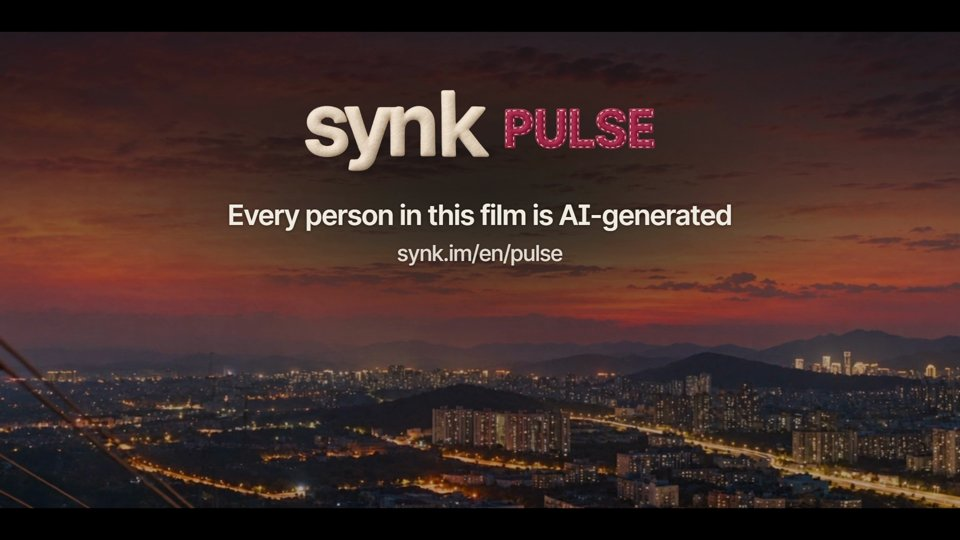
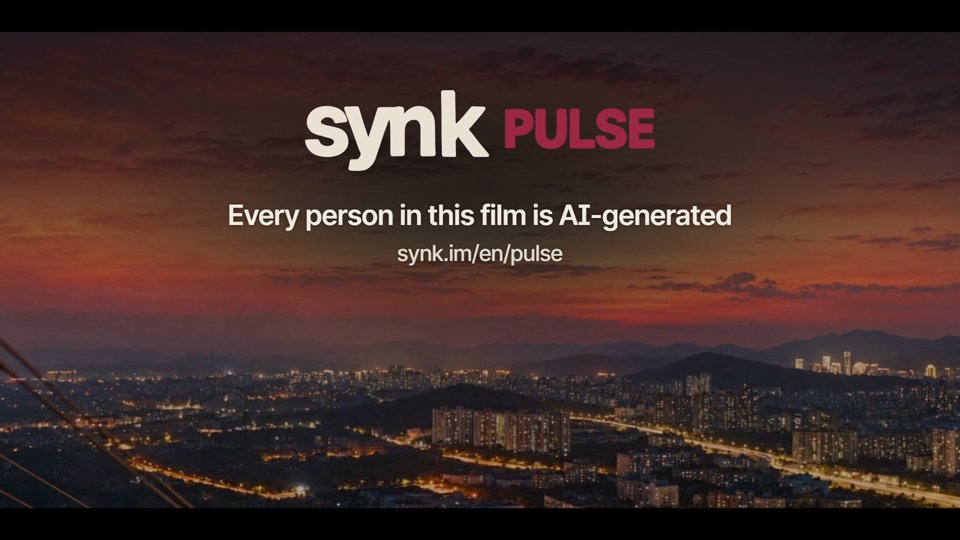
PULSE 영어 시험 첫 편 — 유호님 「평면으로 바꿔」: 도담 영어 판 끝 화면의 SYNK PULSE 로고를 평면 판(승인 외곽선, 크림 · 베리 한 색)으로 바꾼다. 영어판.py 기본을 평면으로, 펠트 판은 --펠트로고 기록용으로 두고, 로고 정본에 이 편 끝 화면에 한한 예외 줄을, 결정 표에 행을, 트랙 1절에 남은 하나(한국어 판 그림 세 자리)를 적는다

Changed region(s): [[0.3125, 0.1778, 0.5312, 0.3259], [0.5312, 0.2074, 0.6875, 0.2963]]

diff --git a/docs/마케팅/PULSE_영어시험_20261117/01_도담중공업_영어/영어판.py b/docs/마케팅/PULSE_영어시험_20261117/01_도담중공업_영어/영어판.py
@@ -4,7 +4,7 @@
 #     소리: 최종소리.build를 그대로 쓰고 내레이션만 영어 판(내레이션_영어.py)으로 바꾼다 — 놓는 자리 · 곡 내림 · 효과음은 한국어 판과 같다.
 #           마지막 줄만 56.08 → 55.58초로 0.5초 당긴다(영어 줄 2.28초가 57.97초 마지막 화음 앞에서 끝나야 곡 내림을 화음 전에 다 푼다).
 #     판: Remotion src/p10en(영어 자막 · SYNK PULSE 끝 화면 3.5초)으로 굽고 음량을 −14 LUFS로 맞춘다.
-#   python -X utf8 영어판.py [소리] [화면] [판] [--목소리 아이작|조지|브라이언] [--로고 A|B|C] [--평면로고]
+#   python -X utf8 영어판.py [소리] [화면] [판] [--목소리 아이작|조지|브라이언] [--로고 A|B|C] [--펠트로고]
 #     → git 밖 synk-vendor/pulse-portfolio12-20261024/최종/p10_en/도담_영어_<로고>_<목소리>.mp4 · _폰.mp4 · _반초.jpg
 #   python -X utf8 영어판.py 낱장 <파일> <초> [<초> …]   → p10_en/_낱장/<파일 이름>_t<초>.png
 import os
@@ -65,7 +65,7 @@ LIFT = {"When it's fully grown it'll weigh 300 tons": 1.5, "We fitted every blad
         "It's all grown up": 5.5, "Now for the first time we wake it": 4.5, "we send our baby out into the world": 2.5}
 
 
-FLAT = [False]   # --평면로고: 끝 화면 로고를 비교 시안(trim_logo 설명)으로 — 이름 끝에 「_평면로고시안」이 붙는다
+FLAT = [True]    # 끝 화면 로고는 평면 판이 기본이다(11-18 유호님 「평면으로 바꿔」, 결정 표 11-18). --펠트로고는 기록용 옛 판 — 이름 끝에 「_펠트로고」가 붙는다
 
 
 def args():
@@ -73,8 +73,8 @@ def args():
     voice, logo, what = "아이작", "C", []
     i = 0
     while i < len(a):
-        if a[i] == "--평면로고":
-            FLAT[0], i = True, i + 1
+        if a[i] == "--펠트로고":
+            FLAT[0], i = False, i + 1
         elif a[i] == "--목소리":
             voice, i = a[i + 1], i + 2
         elif a[i] == "--로고":
@@ -220,9 +220,10 @@ def picture(logo):
 
 
 def trim_logo(flat=False):
-    """승인 로고의 투명 여백만 잘라 TRIM에 둔다. flat=True는 유호님께 견줘 보일 비교 시안 — 외곽선(알파)은 승인 파일 그대로 두고
-    synk는 크림 한 색, PULSE는 베리 몸통 색 한 색으로 채워 펠트 음영 · 실땀을 뺀다. 로고 정본 규칙(「펠트를 한 색으로 덮거나 평평하게 만들지 않는다」)과
-    어긋나므로 유호님이 고르시기 전에는 올리는 판에 쓰지 않는다(11-18 맹검: 같은 장면 · 같은 짜임에서 펠트 4점 · 평면 7점, GPT)."""
+    """승인 로고의 투명 여백만 잘라 TRIM에 둔다. flat=True(기본)는 외곽선(알파)을 승인 파일 그대로 두고 synk는 크림 한 색,
+    PULSE는 베리 몸통 색 한 색으로 채워 펠트 음영 · 실땀을 뺀 평면 판이다. 로고 정본 규칙(「펠트를 한 색으로 덮거나 평평하게 만들지 않는다」)의 예외로,
+    11-18 유호님 「평면으로 바꿔」가 이 편 끝 화면에 허락하셨다(로고_중립색_정본_v1.md 용도별 원천 표 · 결정 표 11-18).
+    근거: 같은 장면 · 같은 짜임에서 로고만 바꾼 맹검 — GPT 펠트 4 · 평면 7, 카본 2 · 4, 둘 다 쌍 비교에서 평면."""
     import numpy as np
     from PIL import Image
     im = Image.open(KIT_LOGO).convert("RGBA")
@@ -244,14 +245,14 @@ def trim_logo(flat=False):
     im.save(TRIM)
 
 
-def render(logo, voice, jobs=2, flat=False):
+def render(logo, voice, jobs=2, flat=True):
     os.makedirs(PUB, exist_ok=True)
     trim_logo(flat)
     for src, to in ((os.path.join(OUT, f"화면_{logo}.mp4"), os.path.join(PUB, "picture.mp4")), (os.path.join(OUT, f"소리_{voice}.wav"), os.path.join(PUB, "sound.wav")),
                     (os.path.join(OUT, f"timing_{voice}.json"), os.path.join(CAP, "src", "p10en", "timing.json"))):
         if not os.path.exists(to) or C.md5(src) != C.md5(to):
             shutil.copyfile(src, to)
-    name = f"도담_영어_{logo}_{voice}" + ("_평면로고시안" if flat else "")
+    name = f"도담_영어_{logo}_{voice}" + ("" if flat else "_펠트로고")
     out, raw = os.path.join(OUT, name + ".mp4"), os.path.join(OUT, "_렌더.mp4")
     C.run(shutil.which("npx"), "remotion", "render", "src/p10en/entry.tsx", "p10en", raw, f"--concurrency={jobs}", "--timeout=120000", "--log=error", cwd=CAP)   # 다른 무거운 일과 겹치면 첫 프레임 가져오기가 28초를 넘겨 멈췄다(11-18)
     want = E.F[-1] + CARD

diff --git a/docs/마케팅/PULSE_영어시험_20261117/01_도담중공업_영어/컷표_만들기.py b/docs/마케팅/PULSE_영어시험_20261117/01_도담중공업_영어/컷표_만들기.py
@@ -170,7 +170,7 @@ cue = {
         {"글": "Every person in this film is AI-generated", "종류": "정보", "어디": "61.08~64.75초(마지막 장면 하늘, 로고 아래)",
          "만드는법": "Inter Tight 600 56px 한 줄, 크림 #F2ECE2(폰 가로 360px에서 약 10px) — 로고 · 주소와 한 줄기로 0.4초 동안 12px 올라온다. 「가상 브랜드」 고지는 게시 글에 둔다"},
         {"글": "SYNK PULSE", "종류": "끝로고", "어디": "61.08~64.75초(61.48초에 앉음)",
-         "만드는법": "재질로 만든 승인 로고 — 브랜드킷 배치용 SYNK-PULSE-Paper.png(펠트 재질 그림)의 투명 여백만 잘라 비례 그대로 700px, 마지막 장면의 가라앉힌 하늘 가운데 위(서명 뒤 무채색 타원), 로고 → 고지 → 주소 한 줄기. 앞 판(검정 · 장면 45% · 노을 위 · 하늘 좌우 두 단)은 카본 맹검 4 · 3 · 4 · 4점 기각, 이 판은 GPT 맹검 7점(쌍 비교에서 좌우 두 단 판을 이김)",
+         "만드는법": "평면 판 로고(11-18 유호님 「평면으로 바꿔」, 로고 정본의 예외) — 브랜드킷 배치용 SYNK-PULSE-Paper.png의 외곽선 그대로 synk 크림 · PULSE 베리 한 색으로 채워 투명 여백만 잘라 비례 그대로 700px, 마지막 장면의 가라앉힌 하늘 가운데 위(서명 뒤 무채색 타원), 로고 → 고지 → 주소 한 줄기. 앞 판(검정 · 장면 45% · 노을 위 · 하늘 좌우 두 단)은 카본 맹검 4 · 3 · 4 · 4점 기각, 이 판은 GPT 맹검 7점(쌍 비교에서 좌우 두 단 판을 이김)",
          "시안": ["시안/끝화면.jpg", "시안/끝화면_맹검/장면안_가운데줄기.jpg", "시안/끝화면_맹검/장면안_하늘묶음.jpg", "시안/끝화면_맹검/단색판_실제렌더.jpg", "시안/끝화면_맹검/가운데묶음_종이.jpg", "시안/끝화면_노을위판.jpg", "시안/끝화면_장면45판.jpg", "시안/끝화면_검정판.jpg", "시안/끝화면_첫판.jpg"]},
         {"글": "synk.im/en/pulse", "종류": "정보", "어디": "61.08~64.75초", "만드는법": "주소 한 줄 — Inter Tight 500 44px(폰에서 약 8px), 크림 90%, 고지 줄 아래 26px"},
     ],

diff --git a/docs/_ops/트랙.md b/docs/_ops/트랙.md
@@ -169,8 +169,8 @@ synk-town 운영은 11-01 실제 대조 v45 — 0555a4c7(싱크타운 첫 C4 후
 - **제주 AI Agent 챌린지 제출 뒤 남은 일(11월 23일~12월 7일, 예약이 함):** 11월 17일 22:10에 데이커에 기획서와 실행 묶음을 냈습니다. 제출 기록은 비공개 보관함 `지원사업/글묶음_20261116/14_제주AIAgent/제출기록.md`에 있습니다. 상호 평가 투표는 예약 `jeju-elo-vote-1123` · `-1125` · `-1126`이 하고, 유호님이 11월 17일 「맡아서 해」로 평가 앞 동의까지 맡기셨습니다(결정 표 11-17). 평가용 키 폐기는 예약 `jeju-eval-key-revoke-1130`(수상하지 않았을 때)과 `-1207`이 합니다. 남은 일: 상호 평가 투표(11월 27일 10:00까지), 평가용 키 폐기(11월 30일 또는 12월 7일).
 - **몽골 학습자 시범 모집 글 보내기(11월 19일):** 몽골 성인 5~10명이 드라마 말하기를 써 보는 시범입니다. 12월 1일 사업계획서의 「실제 학습자 0명」을 메우려는 것입니다. 11월 19일에 아는 분들께 모집 글을 보내 주세요. 보낼 글은 비공개 보관함 `시범_몽골_202611/보낼글_20261119.md`에 있습니다. SYNK ID 로그인은 11월 17일 아침에 ego 기본 프로필 「유호」(Profile 7)에서 살아 있는 것을 Claude가 확인해서, 다시 로그인하실 필요는 없습니다(전에 적은 「유호 (Chrome)」 프로필은 지금 ego에 없습니다). LAB Mongolia 게시를 함께 올릴지도 말씀해 주세요. [설계](../드라마말하기_몽골시범_20261103.md) [지난 경과](보관/트랙_2026-11.md#t1116-15)
 - **KIC 상호 평가 투표 끝(11월 17일, 23표):** 유호님이 11월 17일 22시 반쯤 「KIC도 맡겨」로 평가 앞 서약 창 동의를 맡기셨습니다(결정 표 11-17). 22:40 예약 회차는 자동 모드 판정기가 동의 클릭을 막아 0표였습니다. 그래서 이 일을 맡은 대화 세션이 23:24부터 23:58까지 동의하고 23표(최소 20표 + 3표)를 채웠습니다. 화면에는 「평가 23 / 200회」와 「리더보드 반영됨」이 보였습니다. 남은 예약 둘(`kic-elo-vote-1118`, `kic-elo-vote-1118b`)은 껐습니다. 투표 기록은 비공개 보관함 `지원사업/글묶음_20261110/05_KIC_AI에이전트/상호평가_투표기록.md`에 있습니다. 남은 일: 없음. [지난 경과](보관/트랙_2026-11.md#t1116-54)
+- **PULSE 영어 첫 편(도담중공업)을 보실 때 정하실 것 하나 남음(11월 19일, 11-20 08시 올리기 전):** 영어 판은 다 만들었고 마감 관문을 세 번 돌았습니다. ① 끝 화면 로고는 11-18에 「평면으로 바꿔」로 정하셨고 올릴 판에 넣었습니다([결정](결정.md) 11-18). ② 관문이 한국어 판에서 그대로 온 그림 세 자리를 P1로 올렸습니다. 끝 구간에서 C34만 낮인 것, C16~C18에서 조립동 빛이 바뀌는 것, C22와 C23에 같은 터빈 그림이 이어지는 것입니다. 「이대로 확정」하신 화면이라 다시 굽거나 순서를 바꿀지는 유호님이 정하십니다. 굽지 않는 편집안도 둘 있습니다(C22 빼기, C34를 C33 앞으로 옮기기). 올릴 판의 카본 영상 맹검도 한국어 판 화면(트레일러 3점, 발전소 홀 4점, 도담 로고와 송전탑 4점)과 끝 화면(4점)을 기각했습니다. 이 기록이 있으면 게시 전 검사가 올리기를 막으므로, 고치거나 까닭을 적어 빼는 것까지 이 판단에 들어갑니다([카본 결과](../마케팅/PULSE_영어시험_20261117/01_도담중공업_영어/검수/끝화면_GPT기준_20261118/영상맹검_올릴판_카본결과.md)). 근거는 [관문 보고](../마케팅/PULSE_영어시험_20261117/01_도담중공업_영어/검수/마감_20261118-0406/보고.md)와 [끝 화면 맹검 기록](../마케팅/PULSE_영어시험_20261117/01_도담중공업_영어/검수/끝화면_GPT기준_20261118/README.md)에 있습니다.
 - **PULSE 계정 바꾸기 — 쉬던 링크드인 프로필의 이름을 어떻게 둘지(막지 않음):** 11월 18일에 X 옛 글 13개를 지우고 배너와 커버를 바꿨습니다([시안 기록](../마케팅/PULSE_해외타깃_20261111/배너커버_시안_20261117/README.md#고른-결과-11-18)). 같은 날 오후에는 유호님이 unmet23으로 다시 로그인해 주셔서, 쉬던 프로필(linkedin.com/in/yuhobuilds)의 헤드라인, 소개, 사진을 yuhobuilds 것으로 채웠습니다. 거둔 yuhobuilds 편 넷도 그쪽에 다시 걸었습니다(11월 18 · 19 · 20 · 21일 21시). 정하실 것은 하나입니다. 이 프로필의 이름 칸이 「감찬강」(성 「감찬」, 이름 「강」)인데, 소개와 글은 「SYNK 대표 유호」라서 처음 보는 사람에게 어긋나 보입니다. 대표 프로필과 같은 「양유호」로 바꾸면 링크드인이 한 사람의 두 프로필로 보고 막을 수 있어, Claude가 바꾸지 않았습니다. ① 「양유호」로 바꾼다, ② 지금 이름을 그대로 둔다, ③ 이름은 두고 「다른 이름」 칸에 「유호」를 넣는다(이름 옆 괄호로 보입니다) 가운데 말씀해 주시면 Claude가 바꿉니다. 글은 이름과 상관없이 예정대로 나갑니다.
-- **PULSE 영어 첫 편(도담중공업)을 보실 때 정하실 것 둘(11월 19일, 11-20 08시 올리기 전):** 영어 판은 다 만들었고 마감 관문을 두 번 돌았습니다. 정하실 것이 둘 있습니다. ① 끝 화면의 SYNK PULSE 로고입니다. 승인된 펠트 로고는 카본과 GPT 맹검에서 여섯 판 내내 3~4점으로 기각됐습니다. 같은 장면과 같은 짜임에서 로고만 단색 평면으로 바꿔 견주면 GPT는 4점에서 7점, 카본은 2점에서 4점으로 오르고, 두 검수자 모두 평면 판을 골랐습니다. 로고 정본 규칙이 펠트를 평평하게 만드는 것을 막고 있어서, 영상 끝 화면에만 평면 판을 쓸지 여쭙니다. 두 판은 git 밖 `synk-vendor/pulse-portfolio12-20261024/최종/p10_en/`의 `도담_영어_C_아이작.mp4`(펠트)와 `도담_영어_C_아이작_평면로고시안.mp4`입니다. ② 관문이 한국어 판에서 그대로 온 그림 세 자리를 P1로 올렸습니다. 끝 구간에서 C34만 낮인 것, C16~C18에서 조립동 빛이 바뀌는 것, C22와 C23에 같은 터빈 그림이 이어지는 것입니다. 「이대로 확정」하신 화면이라 다시 굽거나 순서를 바꿀지는 유호님이 정하십니다. 굽지 않는 편집안도 둘 있습니다(C22 빼기, C34를 C33 앞으로 옮기기). 올릴 판의 카본 영상 맹검도 한국어 판 화면(트레일러 3점, 발전소 홀 4점, 도담 로고와 송전탑 4점)과 끝 화면(4점)을 기각했습니다. 이 기록이 있으면 게시 전 검사가 올리기를 막으므로, 고치거나 까닭을 적어 빼는 것까지 이 판단에 들어갑니다([카본 결과](../마케팅/PULSE_영어시험_20261117/01_도담중공업_영어/검수/끝화면_GPT기준_20261118/영상맹검_올릴판_카본결과.md)). 근거는 [관문 보고](../마케팅/PULSE_영어시험_20261117/01_도담중공업_영어/검수/마감_20261118-0406/보고.md)와 [끝 화면 맹검 기록](../마케팅/PULSE_영어시험_20261117/01_도담중공업_영어/검수/끝화면_GPT기준_20261118/README.md)에 있습니다.
 - **드리미나 77yuhbs Ultra 분기 환불 — 다시 요청했고 답을 기다립니다(7일 철회 기간은 11월 23일까지):** 11월 17일 드리미나가 「결제하면 혜택이 바로 들어가는 가상 상품이라 환불하지 않는다」며 거절했습니다. 그런데 77yuhbs 잔액은 10크레딧이고 Ultra 분기 크레딧은 들어오지 않았습니다. 유호님 「그대로 보내」로 그날 18:58에 이 점과 전자상거래법 제17조를 들어 전액 환불과 결제팀 검토를 다시 청했습니다. 답은 77yuhbs 메일함으로 옵니다(확인 안 함). 또 거절되면 카드사 이의 제기나 한국소비자원 상담을 하실지 정해 주셔야 합니다. 경과는 [결정](결정.md) 11-17 「드리미나 77yuhbs Ultra 분기 환불」 행과 [계정 장부](../AI_계정과_크레딧.md#dreamina)에 있습니다.
 - **의왕 청년 e-Room 본선 — 발표 준비물을 보고 고르기, 발표자료 PDF를 보내도 된다고 하기(11월 25일 18:00까지), 11월 27일 14:50 직접 발표:** 예선을 통과했고, 발표 5분과 질의응답 5분을 대표자가 직접 해야 합니다. 참석 회신은 11월 16일 19:13에 보냈습니다. 시연판, 장표 9장, 5분 대본, 질의응답 답안은 비공개 보관함 `SYNK-보관함/지원사업/글묶음_20261110/04_의왕_청년eRoom/본선/`에 있습니다. 발표자료는 사무국 메일에 PDF로 답장해 내야 하므로 보내기 전에 여쭙니다. 멘토가 메일이나 전화로 연락하면 온라인 멘토링 일정을 맞춰 주세요.
 - **포트폴리오 7번 굽기와 힉스필드 결제(11월 27일 블랙프라이데이에 다시 봄):** 7번은 11월 17일 유호님 말씀으로 1화(60초)부터 영상과 편집까지 먼저 끝내 보이고, 2화는 그 뒤에 굽습니다(결정 11-17). 드리미나 주 계정은 unmet23(Advanced 분기)입니다([계정 장부](../AI_계정과_크레딧.md#dreamina)). 힉스필드 SECRET 요금제는 11월 27일 블랙프라이데이에 실제 값을 다시 읽고 정합니다. founder 요금제가 11월 8일에 끝나 그 계정의 작은 굽기를 어디서 할지도 정해 주셔야 합니다. 그록봇이 권한 힉스필드 Ultra 3K 연간 할인(11월 18일 09:00까지)은 유호님 「1번은 지금 당장 무시해도 돼」로 넘기고 11월 27일에 함께 봅니다([결정](결정.md) 11-17). 결제 갈래별 좋은 점과 나쁜 점은 비공개 보관함 `BM_심화/research_notes/PULSE 마케팅 라인업 20261116/답_부록B_20261116.md` 5-1절에 있습니다. 그림 엔진은 Seedream 5.5이고 1화 시작 그림 44장을 다 구웠습니다. 11월 18일 유호님 「30초정도만 구워봐」로 앞 30초(1-1~1-25) 영상 21판을 구웠습니다. 받은 판의 대사가 원본 컷보다 길어 말을 다 들리게 이은 가편집이 37.8초입니다([편집표](../마케팅/PULSE_포트폴리오_제작준비_20261012/video/short-drama-20261026/가편집표_1화.json), [현장 노트](../현장노트/영상_ffmpeg_자막.md)). 11월 18일 유호님이 그 가편집에서 컷마다 소품과 동작이 순간이동한다고 하셔서 영상 작업을 멈췄습니다(「싹다 갈아엎어야해」, [결정](결정.md) 11-18). 더 굽지 않고, 원인 진단(유호님의 GPT 세션) 뒤에 만드는 방법부터 다시 정합니다([7번 콘티 10절](../마케팅/PULSE_포트폴리오_제작준비_20261012/video/short-drama-20261026/02_콘티.md)). [지난 경과](보관/트랙_2026-11.md#t1116-18)

diff --git a/docs/_ops/결정.md b/docs/_ops/결정.md
@@ -7,6 +7,7 @@
 <!-- 결정표 시작 · tools/결정.js 가 이 구간만 읽고 쓴다 -->
 | 날짜 | 성격 | 결정 | 근거 |
 |---|---|---|---|
+| 2026-11-18 | 확정 | [PULSE 영어 첫 편 도담중공업 · 끝 화면 SYNK PULSE 로고 = 평면 판 · 유호님 「평면으로 바꿔」] 도담 영어 판 끝 화면의 SYNK PULSE 로고를 펠트 판에서 평면 판으로 바꾼다. 평면 판은 승인 파일(브랜드킷 배치용 SYNK-PULSE-Paper.png)의 외곽선을 그대로 두고 synk를 크림 한 색, PULSE를 베리 몸통 색 한 색으로 채워 펠트 음영과 실땀을 뺀 것이다. 로고 정본 규칙 「펠트를 한 색으로 덮거나 평평하게 만들지 않는다」의 예외이고, 범위는 이 편의 끝 화면이다. 다른 영상 끝 화면에 넓힐지는 따로 정한다. 올릴 판은 git 밖 최종/p10_en/도담_영어_C_아이작.mp4, 펠트 판은 _펠트로고.mp4로 남겼다. | 유호님 11-18 「평면으로 바꿔」(끝 화면 로고를 펠트 그대로 둘지 영상용 평면 판으로 바꿀지 여쭌 데 대한 답). 같은 장면과 짜임에서 로고만 바꾼 맹검이 GPT 펠트 4 · 평면 7점, 카본 2 · 4점이었고 둘 다 쌍 비교에서 평면을 골랐다. 유호님 10-29 「펠트로 cg 글씨 넣어준거 다 너무 진짜 별로야」(영상 점검표 7번). 기록: 01_도담중공업_영어/검수/끝화면_GPT기준_20261118/README.md |
 | 2026-11-18 | 확정 | [SYNK 플랫폼 PC 클라이언트 · PC 0.4.97 공개 · Claude 판단 · 맡긴 세션 11-18] PC 0.4.97(0.4.96 검수 후속과 솔리오 「방문자 분석」)을 냈다. 원천은 synk-policy 2ffc960, 릴리스 platform-preview-0.4.97은 11-18 16:04 KST에 공개했고, 피드와 다운로드는 synk-policy 863520cf로 올렸다. 이 PC 설치본은 트레이에 숨은 채 16:52에 창 없이 0.4.97로 바뀌어, 조용한 업데이트를 포장된 앱에서 처음 확인했다. 창이 보이는 채로의 가림막은 다음 판에서 본다. 방문자 분석의 볼 계정은 아직 없고, 유호님이 솔리오를 한 번 여신 뒤 고르신 번호로 받는다. | 검수 화면 pc-0497-screen-20261118-v5(Fable 0) · 엔진 pc-0497-engine-20261118-f(GPT 0) · 공개 후보 pc-0497-publish-20261118-e(Fable 0) · 피드 pc-0497-feed-20261118-b(카본 0 · Fable 0). 빌드 44219564954 세 플랫폼 통과, 공개 주소 세 곳 대조, 이 PC verify-current · verify-installed 통과. 경과는 1-가 구현설계 7절 |
 | 2026-11-18 | 확정 | [synk.im 영어 PULSE 대표 문장과 정지 그림 말 · 11-18 SNS 프로필 점검 후속 · 11-18 공개] 영어 PULSE 첫 화면 소개는 유튜브 @synkpulse 설명과 같은 「Our founder, who has appeared on Netflix and tvN and starred in a web drama with 10 million views on Facebook, directs the glance, the hand holding the product and the timing of a smile.」로 쓴다. 영상 전에 샷마다 먼저 보여 주는 정지 그림은 영어에서 「still image」 · 「shot」으로 쓰고 「scene image」 · 「every cut」은 쓰지 않는다(쪽 설명, 구역 소개, 세 확인 줄, 「Every shot first」, 의뢰 띠, 바닥 소개, /en/pulse/ai/ 바닥, llms.txt, 질문창 답 다섯). 편집을 뜻하는 cut과 한국어 쪽은 그대로 둔다. | 영어 세 겹 검사(카본 문법 → 원문을 안 본 Opus 직역 → Fable 확인): 「led」는 역번역 둘 다 「이끈」으로 읽어 주연이 흐려졌고 「A founder」는 남의 회사처럼 들린다([Fable 확인](../마케팅/프로필점검_20261118/검수/영어_프로필_fable확인.md)). 원천 SYNK-website claude/pulse-en-still-shot-20261118 2636d70, 검수 pulse-en-still-shot-20261118(카본 0건 · 글만 바꿔 Fable 생략), 공개 synk-policy fe29314. 첫 화면 글이 쇼릴 얼굴에 닿는 크기 1,196크기 모두 0 |
 | 2026-11-18 | 확정 | [SYNK 플랫폼 PC 클라이언트 · 2단계(솔리오 안쪽)로 넘어감 · 유호님 11-18] 검정 구 프론트의 2단계를 시작한다. 첫 조각은 시안에 이미 있는 셋이다. 구에 다가가면 공간과 계정이 구 곁으로 펼쳐지는 화면, 구독 줄에 다가가면 그 줄의 안쪽이 펼쳐지는 화면, 창 크기에 맞춰지는 화면이다. 구독 줄 안쪽은 앱이 실제 자료로 만들 수 있는 줄만 두고 예시 값은 싣지 않는다. 둘째 조각(계정 관리, 모델별 토큰, 백업 · 복구, 내 계정, 설정)은 시안부터 짓는다. 옛 런처 화면과 펠트 그림은 둘째 조각이 끝난 뒤에 거둔다. 구 위의 자리와 점 로고는 그대로 둔다(유호님 「설치본 보고 정할게」). | 유호님 「프론트 다끝났어? 이어서 해」. 트랙은 다가가면 펼쳐지는 판과 창 크기에 맞춰지는 판에 대한 유호님 말씀을 기다린 뒤 솔리오 안쪽을 옮긴다고 적어 두었다. 그 둘에 대한 말씀은 따로 없었다. 다가가면 펼쳐지게 하자는 것은 유호님이 11-16 밤에 먼저 말씀하신 것이고 시안에 지어 보여 드렸으므로, 시안을 맡은 세션(Claude)이 더 기다리지 않고 시안대로 옮기기로 판단했다. 새 화면 흐름이라 구현 설계를 Fable 설계 검토에 올린 뒤 짓는다. 단계 표는 옮기기 설계 「단계」에 있다. |
